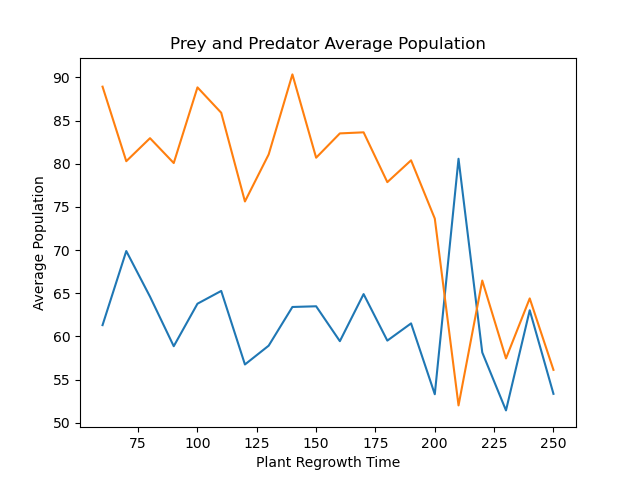
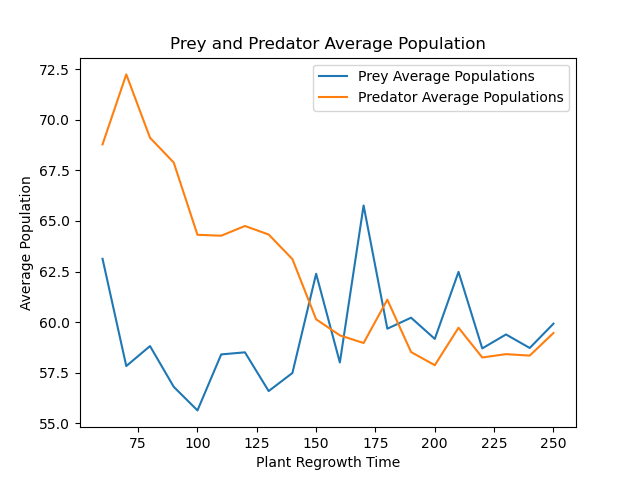
Simulation Plots

diff --git a/model.py b/model.py
@@ -35,11 +35,11 @@ from scipy.spatial.distance import cdist
 #- Simulation Constants
 #-----------------------
 #- Number of sets of simulations run
-SET_NUM = 10
+SET_NUM = 20
 #- Number of simulations run per set
-SIMULATION_NUM = 20
+SIMULATION_NUM = 10
 #- Number of time steps in the simulation
-TIME_STEPS = 1000
+TIME_STEPS = 3000
 #- Can agents move diagonally? (affects distance calc)
 DIAGONAL_MOVEMENT = True
 #- Do agents reproduce asexually?
@@ -123,8 +123,8 @@ PLANT_REGROWTH_TIME = 250
 #------------------
 #- Whether each plot should be displayed after a simulation, set, or set of
 #  sets.
-LAG_PLOT_DISLPAYS = {"sets": True, "set": True, "simulation": False}
-POPULATION_PLOT_DISPLAYS = {"sets": True, "set": True, "simulation": False}
+LAG_PLOT_DISLPAYS = {"sets": True, "set": False, "simulation": False}
+POPULATION_PLOT_DISPLAYS = {"sets": True, "set": False, "simulation": False}
 
 def runSets():
     """
@@ -170,7 +170,6 @@ def runSet():
     i = 0
     while i < SIMULATION_NUM:
         startTime = time.time()
-        globals()['PREDATOR_REPRODUCTION_TIME'] = (PREDATOR_REPRODUCTION_TIME[0]+i*2, PREDATOR_REPRODUCTION_TIME[1]+i*2)
         preyPopulations[i], predatorPopulations[i] = runSimulation(False)
         if preyPopulations[i, -1] == 0 or predatorPopulations[i, -1] == 0:
             print(f'Sim {i+1} failed, rerunning')
@@ -178,6 +177,8 @@ def runSet():
         print(f"Finished Simulation {i+1}, Time Taken: {round(time.time() - startTime, 3)} seconds")
         i += 1
     if POPULATION_PLOT_DISPLAYS["set"]:
+        # plotAveragePopulations(np.mean(preyPopulations, axis=1), np.mean(predatorPopulations, axis=1), \
+            # np.arange(SIMULATION_NUM), 'Normal')
         plotPopulations(np.average(preyPopulations, axis=0),
                         np.average(predatorPopulations, axis=0))
     if LAG_PLOT_DISLPAYS["set"]:
@@ -185,7 +186,7 @@ def runSet():
                            np.average(predatorPopulations, axis=0))
     return preyPopulations, predatorPopulations
 
-def runChangingSet(globalKey, change):
+def runChangingSet(globalKey, default_value, change):
     """
     Runs a single set of simulations with changes made to 
     a global parameter between each simulation run.
@@ -204,27 +205,38 @@ def runChangingSet(globalKey, change):
     predatorPopulations : 2d scalar array
         The number of predators alive at each time step in each simulation
     """
-    preyPopulations = np.zeros((SIMULATION_NUM, TIME_STEPS))
-    predatorPopulations = np.zeros((SIMULATION_NUM, TIME_STEPS))
+    preyPopulations = np.zeros((SET_NUM, SIMULATION_NUM))
+    predatorPopulations = np.zeros((SET_NUM, SIMULATION_NUM))
     i = 0
-    numFails = 0
-    while i < SIMULATION_NUM:
-        if numFails == 10:
-            print(f'Changing Set failed, try different parameters')
-            break
-        startTime = time.time()
+    while i < SET_NUM:
+        setStartTime = time.time()
+        simPreyPopulations = np.zeros((SIMULATION_NUM, TIME_STEPS))
+        simPredatorPopulations = np.zeros((SIMULATION_NUM, TIME_STEPS))
         if type(globals()[globalKey]) == tuple:
-            globals()[globalKey] = (eval(globalKey)[0]+i*change, eval(globalKey)[1]+i*change)
+            globals()[globalKey] = (default_value[0]+i*change, default_value[1]+i*change)
         else:
-            globals()[globalKey] = eval(globalKey)+i*change   
-        preyPopulations[i], predatorPopulations[i] = runSimulation(False)
-        if preyPopulations[i, -1] == 0 or predatorPopulations[i, -1] == 0:
-            print(f'Sim {i+1} failed, rerunning')
-            numFails += 1
-            continue
-        print(f"Finished Simulation {i+1}, Time Taken: {round(time.time() - startTime, 3)} seconds")
-        i += 1
+            globals()[globalKey] = default_value+i*change 
         numFails = 0
+        j = 0  
+        while j < SIMULATION_NUM:
+            if numFails == 10:
+                print(f'Changing Set failed, try different parameters')
+                break
+            startTime = time.time()
+            simPreyPopulations[j], simPredatorPopulations[j] = runSimulation()
+            if simPreyPopulations[j, -1] == 0 or simPredatorPopulations[j, -1] == 0:
+                print(f'Sim {j+1} failed, rerunning')
+                numFails += 1
+                continue
+            print(f"Finished Simulation {j+1}, Time Taken: {round(time.time() - startTime, 3)} seconds")
+            j += 1
+            numFails = 0
+        if numFails == 10:
+            break
+        preyPopulations[i] = np.mean(simPreyPopulations, axis=1) 
+        predatorPopulations[i] = np.mean(simPredatorPopulations, axis=1)
+        print(f'Finished Set {i+1}, Time Taken: {round(time.time() - setStartTime, 3)} seconds')
+        i += 1
     return preyPopulations, predatorPopulations
 
 def plotChangingSet(globalKey, change, xLabel):
@@ -242,18 +254,15 @@ def plotChangingSet(globalKey, change, xLabel):
     xLabel : string
         The xlabel corresponding to the changing parameter
     """
-    if type(globals()[globalKey]) == tuple:
-        original_value = globals()[globalKey]
-        default_value = globals()[globalKey][0]
+    default_value = globals()[globalKey]
+    if type(default_value) == tuple:
+        arange = np.arange(SET_NUM)*change + default_value[0]
     else:
-        default_value = globals()[globalKey]
-    preyPopulations, predatorPopulations = runChangingSet(globalKey, change)
+        arange = np.arange(SET_NUM)*change + default_value
+    preyPopulations, predatorPopulations = runChangingSet(globalKey, default_value, change)
     plotAveragePopulations(np.mean(preyPopulations, axis=1), np.mean(predatorPopulations, axis=1),\
-        np.arange(SIMULATION_NUM)*change + default_value, xLabel)
-    if type(globals()[globalKey]) == tuple:
-        globals()[globalKey] = original_value
-    else:
-        globals()[globalKey] = default_value
+        arange, xLabel)    
+    globals()[globalKey] = default_value
 
 def runSimulation(shouldVisualize = False):
     """
@@ -384,6 +393,7 @@ def plotAveragePopulations(preyAveragePopulations, predatorAveragePopulations, a
     ax.set_title("Prey and Predator Average Population")
     ax.set_xlabel(xLabel)
     ax.set_ylabel("Average Population")
+    ax.legend()
     plt.show()
     
 def plotPopulations(preyPopulations, predatorPopulations):
@@ -394,6 +404,7 @@ def plotPopulations(preyPopulations, predatorPopulations):
     ax.set_title("Prey and Predator Populations")
     ax.set_xlabel("Time (timesteps)")
     ax.set_ylabel("Populations")
+    ax.legend()
     plt.show()
 
 def plotLagCorrelation(preyPopulations, predatorPopulations,
@@ -685,8 +696,6 @@ def movePredators(preyMask, predators, predatorMask):
     #- Kill starving predators
     predatorMask[predatorMask] = np.where(predators[predatorMask, 0] <= 0, False, True)
     t('1.3.2.3')
-
-
 
 def movePrey(prey, preyMask, predatorMask, plants):
     """
@@ -1130,11 +1139,4 @@ def printTimes():
 #- Checks if this file is being run directly and not imported
 if (__name__ == '__main__'):
     np.set_printoptions(threshold=sys.maxsize)
-    # Good
-    # plotChangingSet('PREDATOR_REPRODUCTION_THRESHOLD', 2, 'Predator Reproduction Energy Threshold')
-    # plotChangingSet('PREDATOR_REPRODUCTION_TIME', 2, 'Predator Minimum Reproduction Time')
-    # Bad (not working because simulations fail)
-    # plotChangingSet('PREY_REPRODUCTION_TIME', 2, 'Prey Minimum Reproduction Time')
-    # plotChangingSet('PREY_REPRODUCTION_THRESHOLD', -2, 'Prey Reproduction Energy Threshold')
-    
-    plotChangingSet('PLANT_REGROWTH_TIME', -10, 'Plant Regrowth Time')
+    runSimulation(True)
